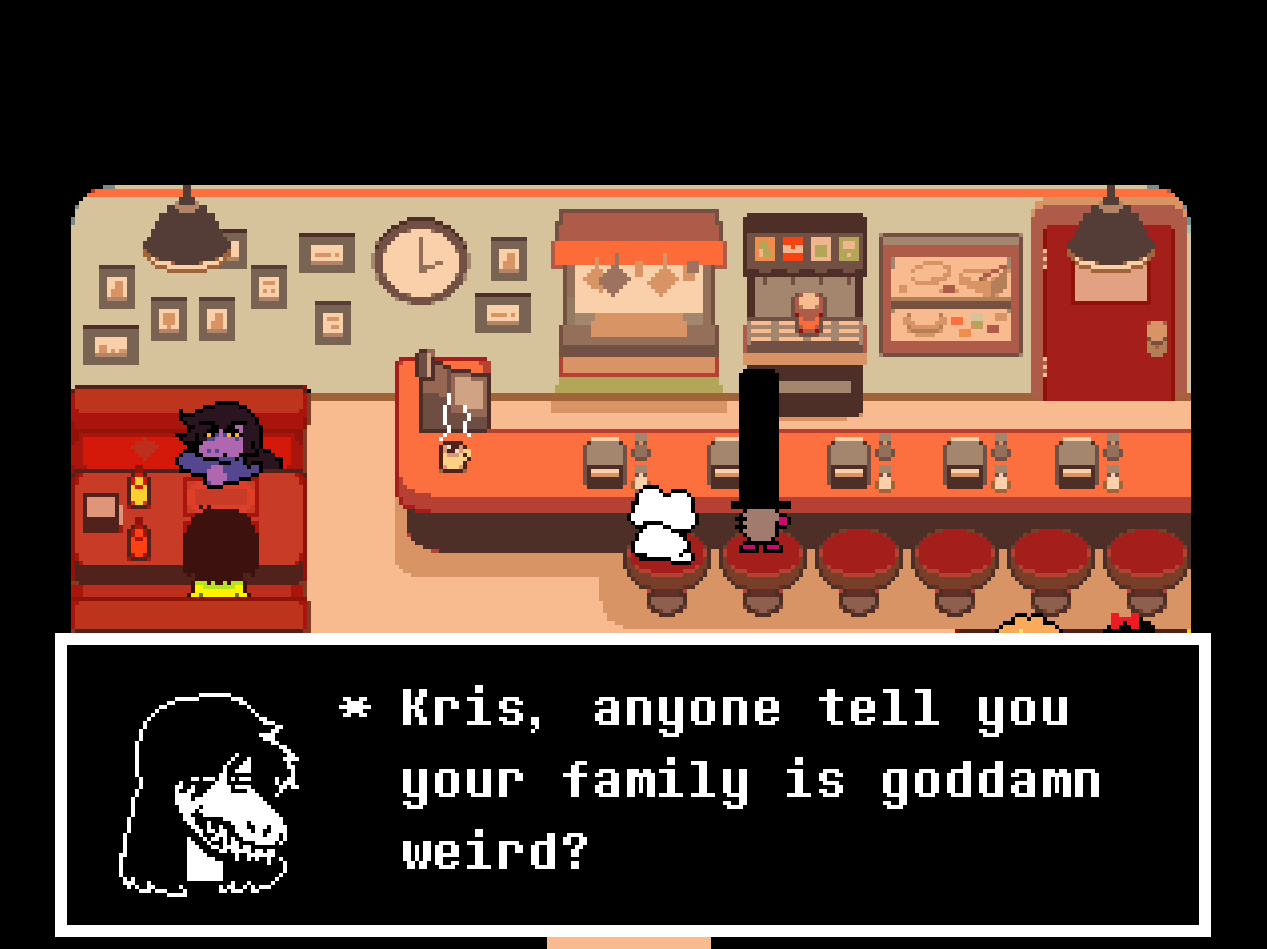
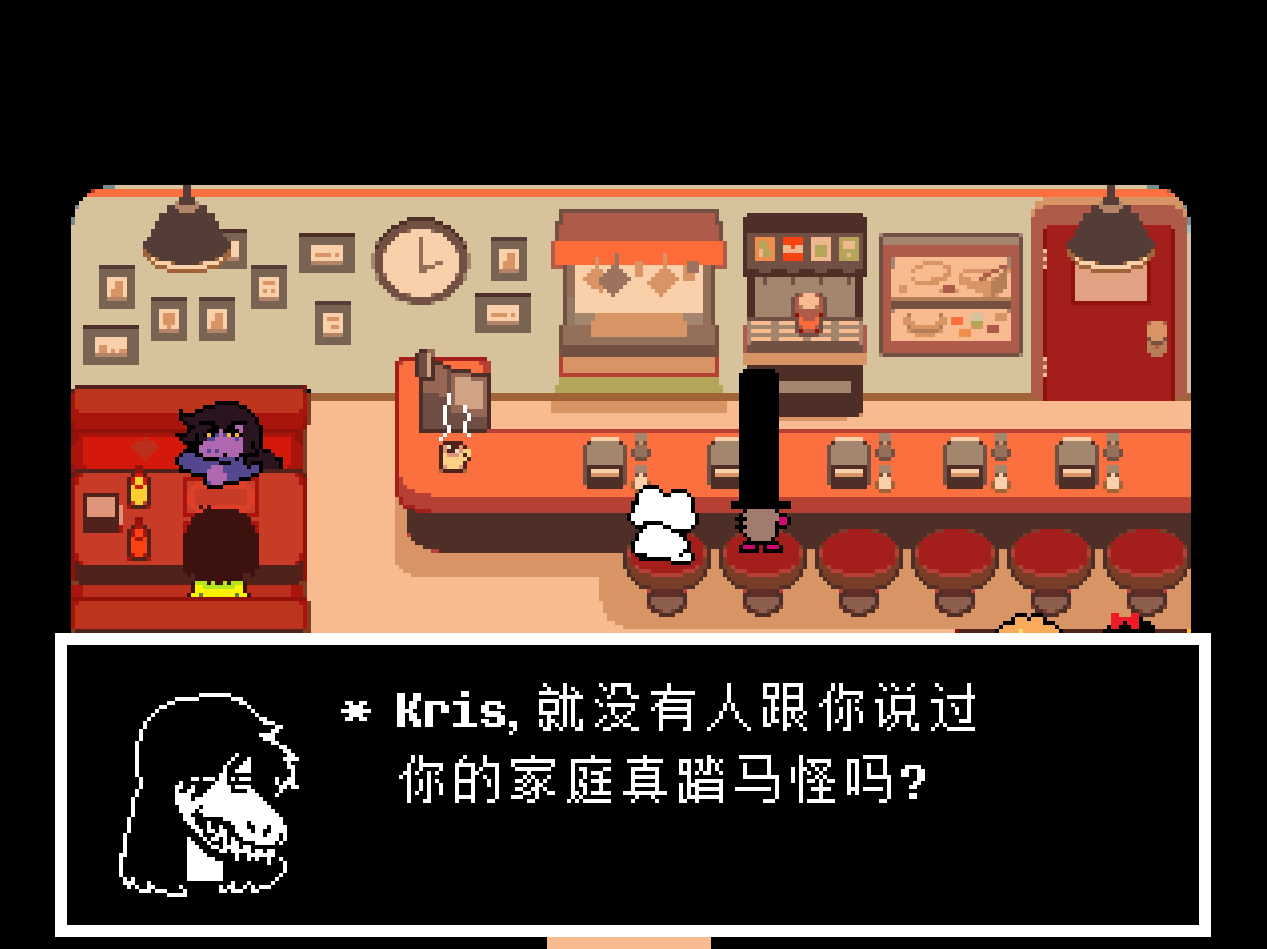
fix

Changed region(s): [[0.2463, 0.7028, 0.8619, 0.9168]]

diff --git a/update-092022.html b/update-092022.html
@@ -75,9 +75,9 @@
                             <figcaption>「漫漫长夜过后，阳光依然耀眼。」</figcaption>
                         </figure>
                         <figure class="screenshot-container"><img
-                                alt="Susie with Kris at diner: Kris, anyone tell you your family is goddamn weird?"
+                                alt="Susie和Kris在餐厅：Kris，没有人跟你说过你的家庭真踏马怪吗？"
                                 class="img-responsive screenshot" src="/assets/images/update2022-dr-ch4-diner-02.png">
-                            <figcaption>在餐厅里选一个最喜欢的位置坐下吧</figcaption>
+                            <figcaption>在餐厅里选一个最喜欢的位置坐下吧。</figcaption>
                         </figure>
                         <figure class="screenshot-container"><img alt="Susie throwing a rock into the water with Kris"
                                 class="img-responsive screenshot" src="/assets/images/update2022-dr-ch4-beach.png">
@@ -133,7 +133,7 @@
                 <div class="section row">
                     <div class="col-sm-offset-2 col-sm-8">
                         <p class="mt-big">抱歉，没有任何内容准备好在今年发布。所以你现在还不能花钱。</p>
-                        <p>但是为了款待腰包富余的粉丝们，今年我们准备了一个特殊活动 -- <span class='yellow'>SPAMTON大抽奖</span>，一个<b>超级特别</b>的抽奖活动 / 慈善拍卖，将于北京时间周日3:00在这里，<a href='/'>deltarune.com</a>开启，并持续24个小时!并且不要担心 -- 无论你是喜欢还是讨厌Spamton，都能在这里找到你想要的东西!</p>
+                        <p>但是为了款待腰包富余的粉丝们，今年我们准备了一个特殊活动 -- <span class='yellow'>SPAMTON大抽奖</span>，一个<b>超级特别</b>的抽奖活动 / 慈善拍卖，将于北京时间周日3:00在这里，<a href='/'>deltarune.com</a>开启，持续24个小时！并且不要担心 -- 无论你是喜欢还是讨厌Spamton，都能在这里找到你想要的东西！</p>
                     </div>
                 </div>
             </div>

diff --git a/index.html b/index.html
@@ -138,27 +138,6 @@
                 </div>
             </div>
         </div>
-        <div aria-labelledby="sticker1__modal_label" class="modal" id="sticker1_modal" role="dialog" tabindex="-1">
-            <div class="modal-dialog" role="document">
-                <div class="modal-content">
-                    <div class="modal-header"><button aria-label="Close" class="close" data-dismiss="modal"
-                            type="button"><span aria-hidden="true">×</span></button>
-                        <h3 class="modal-title" id="pc_modal_label">贴纸第1弹获取</h3>
-                    </div>
-                    <div class="modal-body">
-                        <div id="download"><a class="yellow downloadlink"
-                                href="https://line.me/S/sticker/13505512">获取<br>(LINE贴纸商城)</a>
-                        </div>
-                        <div id="download"><a class="yellow downloadlink"
-                                href="https://apps.apple.com/us/app/deltarune-stickers-vol-1/id1537859603">获取<br>(iMessage商城)</a>
-                        </div>
-                        <div id="download"><a class="yellow downloadlink"
-                                href="https://deltarune-cn.github.io/contents/Deltarune_Stickers_Vol.1_English.zip">下载图片<br>(本站)</a>
-                        </div>
-                    </div>
-                </div>
-            </div>
-        </div>
     </div>
     <footer>
         <div class="container">
